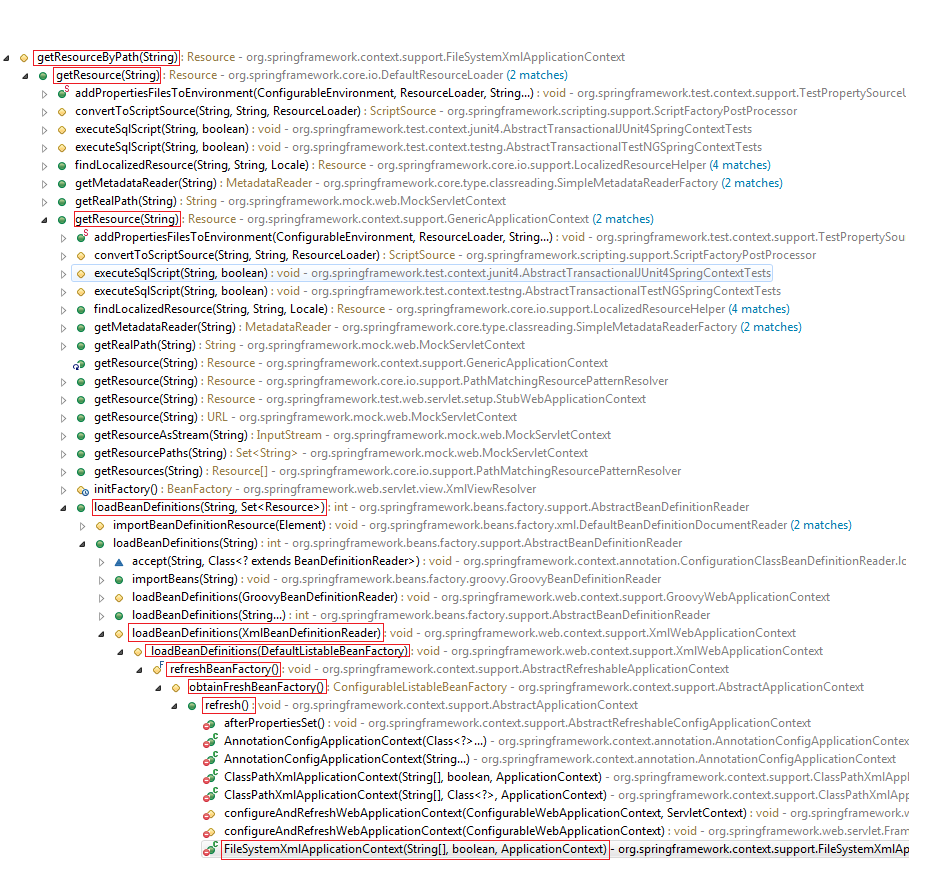
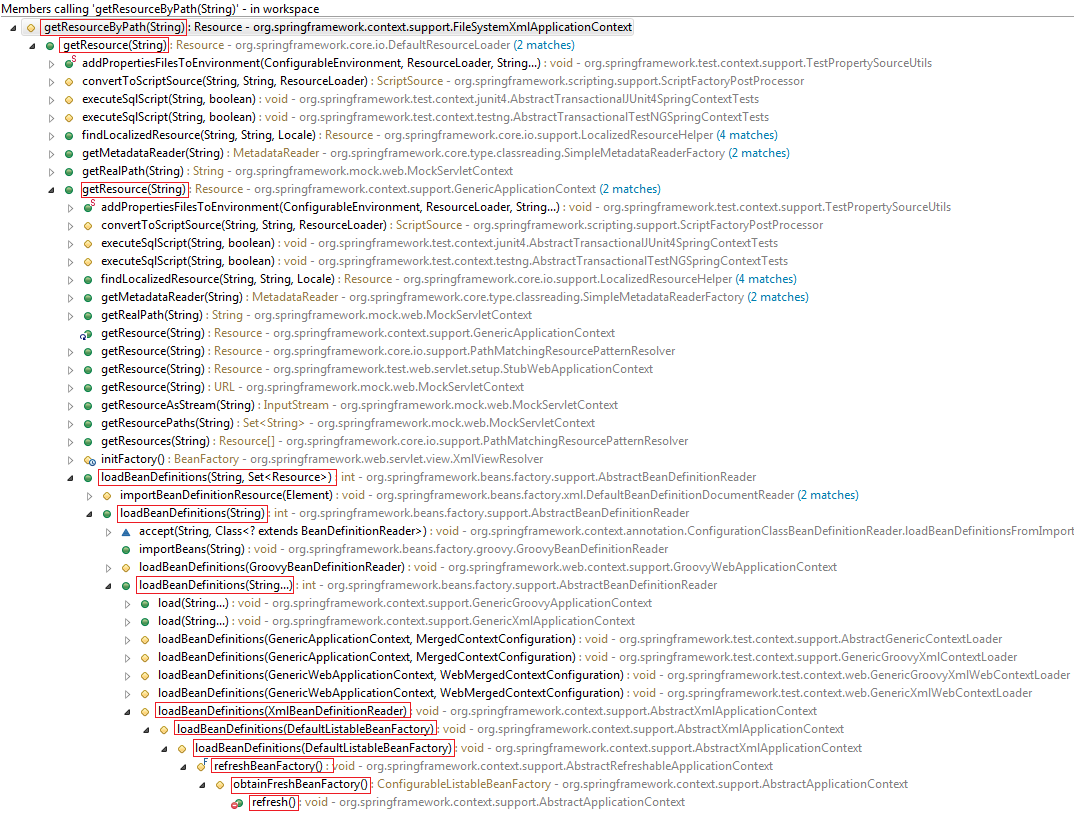
Update summary.md

diff --git a/summary.md b/summary.md
@@ -287,7 +287,7 @@ BeanFactory就是一个IoC容器的规范。所有的IoC容器的实现都必须
 
 我们知道IoC容器最常用的就是ApplicationContext和BeanFactory这两个。接下来我们就以Spring4.3.14中的**org.springframework.context.support.FileSystemXmlApplicationContext**为例，来深入了解下IoC的初始化过程。
 
--   ## Resource定位（Bean的定义文件定位，即BeanDefinition定位）    
+-   ## Resource定位    
     
     > 这个阶段的目的就是对**BeanDefinition**资源的path进行解析，然后生成一个**org.springframework.core.io.Resource**对象供后面载入和解析。
 
@@ -438,18 +438,18 @@ BeanFactory就是一个IoC容器的规范。所有的IoC容器的实现都必须
     ```java
     @Override
 	protected final void refreshBeanFactory() throws BeansException {
-        //先判断Bean Factory是否已经存在
-        //如果存在就销毁存在的Bean Factory
+            //先判断Bean Factory是否已经存在
+            //如果存在就销毁存在的Bean Factory
 		if (hasBeanFactory()) {
 			destroyBeans();
 			closeBeanFactory();
 		}
 		try {
-            //创建一个Bean Factory
+                    //创建一个Bean Factory
 			DefaultListableBeanFactory beanFactory = createBeanFactory();
 			beanFactory.setSerializationId(getId());
 			customizeBeanFactory(beanFactory);
-            //加载BeanFactory
+                    //加载BeanFactory
 			loadBeanDefinitions(beanFactory);
 			synchronized (this.beanFactoryMonitor) {
 				this.beanFactory = beanFactory;
@@ -462,8 +462,118 @@ BeanFactory就是一个IoC容器的规范。所有的IoC容器的实现都必须
     ```
 
     从 **refreshBeanFactory** 中可以获取两个信息：
-    1.  这里的BeanFactory使用的是 **DefaultListableBeanFactory** 。
+    1.  这里的BeanFactory使用的是 **DefaultListableBeanFactory** 。从这里也可以看出，其实 **ApplicationContext** 是封装了BeanFactory初始化的步骤。
     2.  开始加载BeanDefinitions。既然要加载，必然需要先定位BeanDefinition的位置。
+
+    这里调用的是 **org.springframework.context.support.AbstractXmlApplicationContext.loadBeanDefinitions()** 。
+
+    ```java
+    protected void loadBeanDefinitions(DefaultListableBeanFactory beanFactory) throws BeansException, IOException {
+		// 为给定的BeanFactory创建出一个XmlBeanDefinitionReader
+		XmlBeanDefinitionReader beanDefinitionReader = new XmlBeanDefinitionReader(beanFactory);
+
+		// 给这个BeanDifinitionReader配置加载资源
+		beanDefinitionReader.setEnvironment(this.getEnvironment());
+		beanDefinitionReader.setResourceLoader(this);
+		beanDefinitionReader.setEntityResolver(new ResourceEntityResolver(this));
+
+		// 允许AbstractXmlApplicationContext的子类自定义reader的初始化过程
+		initBeanDefinitionReader(beanDefinitionReader);
+        // 开始加载BeanDefinition
+		loadBeanDefinitions(beanDefinitionReader);
+	}
+    ```
+
+    ```java
+    protected void loadBeanDefinitions(XmlBeanDefinitionReader reader) throws BeansException, IOException {
+		Resource[] configResources = getConfigResources();
+		if (configResources != null) {
+			reader.loadBeanDefinitions(configResources);
+		}
+		String[] configLocations = getConfigLocations();
+		if (configLocations != null) {
+			reader.loadBeanDefinitions(configLocations);
+		}
+	}
+    ```    
+
+    可以看到里面提供了两个获取BeanDefinition的定位方式。
+    1.  getConfigResources()
+    2.  getConfigLocations()
+
+    根据 **getResourceByPath(String)** 的方法调用栈来看，我们会调用getConfigLocations();
+
+    ```java
+    @Nullable
+	protected String[] getConfigLocations() {
+            //在FileSystemXmlApplicationContext的构造函数中曽调用过setConfigLocations(String[])
+            //所以这里直接就是返回了当时设定的BeanDefinition的路径
+		return (this.configLocations != null ? this.configLocations : getDefaultConfigLocations());
+	}
+    ```
+
+    接着开始调用 `reader.loadBeanDefinitions(configLocations);`
+
+    ```java
+    @Override
+	public int loadBeanDefinitions(String... locations) throws BeanDefinitionStoreException {
+		Assert.notNull(locations, "Location array must not be null");
+		int counter = 0;
+		for (String location : locations) {
+			counter += loadBeanDefinitions(location);
+		}
+		return counter;
+	}
+
+    public int loadBeanDefinitions(String location) throws BeanDefinitionStoreException {
+		return loadBeanDefinitions(location, null);
+	}
+    ```
+
+    经过上面的层层调用终于到了真正加载BeanDefinition的方法 **loadBeanDefinitions(String, Set)** 。
+
+    ```java
+    public int loadBeanDefinitions(String location, @Nullable Set<Resource> actualResources) throws BeanDefinitionStoreException {
+		ResourceLoader resourceLoader = getResourceLoader();
+		if (resourceLoader == null) {
+			throw new BeanDefinitionStoreException(
+					"Cannot import bean definitions from location [" + location + "]: no ResourceLoader available");
+		}
+
+		if (resourceLoader instanceof ResourcePatternResolver) {
+			// Resource pattern matching available.
+			try {
+				Resource[] resources = ((ResourcePatternResolver) resourceLoader).getResources(location);
+				int loadCount = loadBeanDefinitions(resources);
+				if (actualResources != null) {
+					for (Resource resource : resources) {
+						actualResources.add(resource);
+					}
+				}
+				if (logger.isDebugEnabled()) {
+					logger.debug("Loaded " + loadCount + " bean definitions from location pattern [" + location + "]");
+				}
+				return loadCount;
+			}
+			catch (IOException ex) {
+				throw new BeanDefinitionStoreException(
+						"Could not resolve bean definition resource pattern [" + location + "]", ex);
+			}
+		}
+		else {
+			// Can only load single resources by absolute URL.
+			Resource resource = resourceLoader.getResource(location);
+			int loadCount = loadBeanDefinitions(resource);
+			if (actualResources != null) {
+				actualResources.add(resource);
+			}
+			if (logger.isDebugEnabled()) {
+				logger.debug("Loaded " + loadCount + " bean definitions from location [" + location + "]");
+			}
+			return loadCount;
+		}
+	}
+    ```
 
 -   ## BeanDefinition的载入和解析。
     将用户定义好的Bean表示成IoC容器内部的数据结构，这个容器内部的数据结构就是BeanDefinition。
